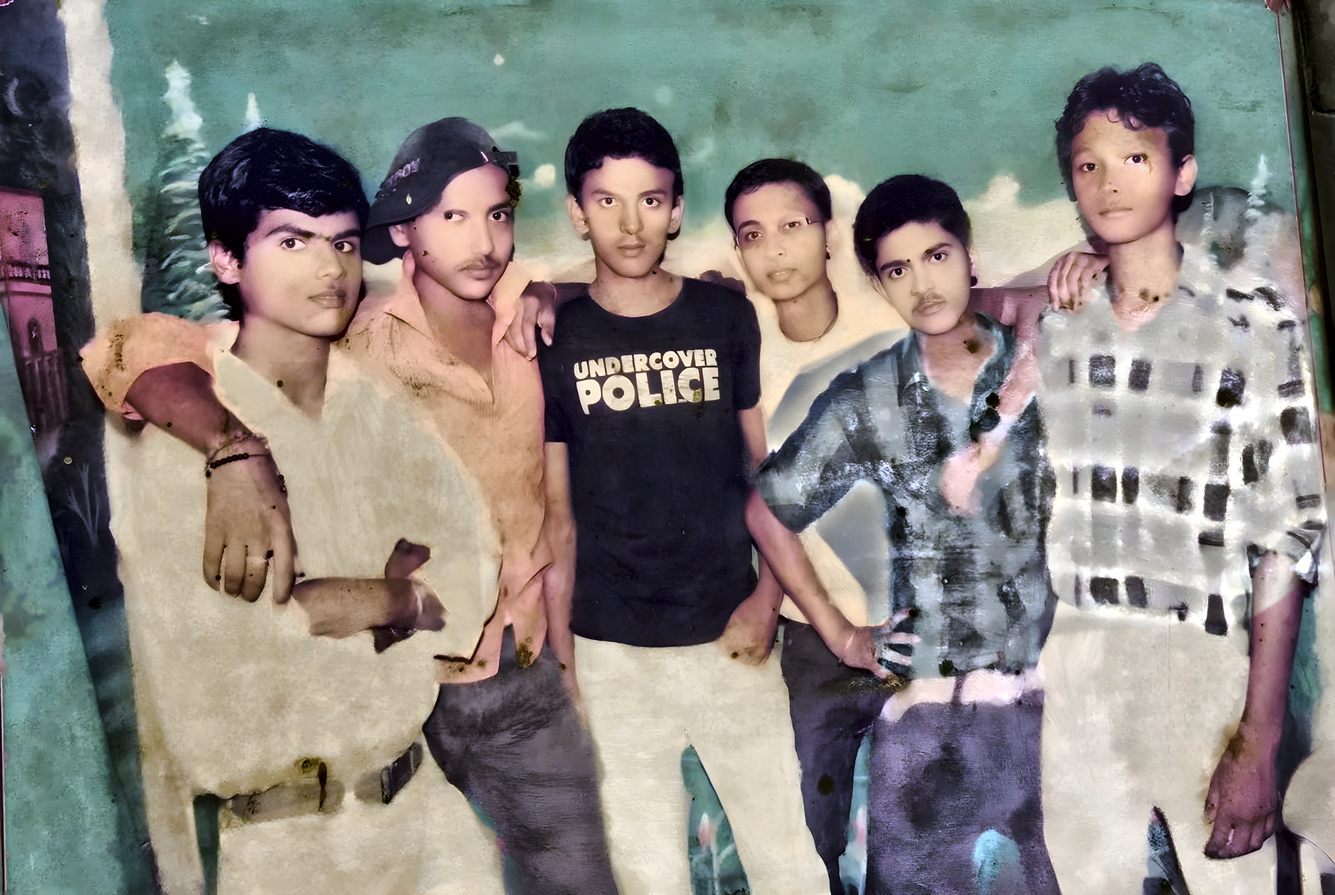
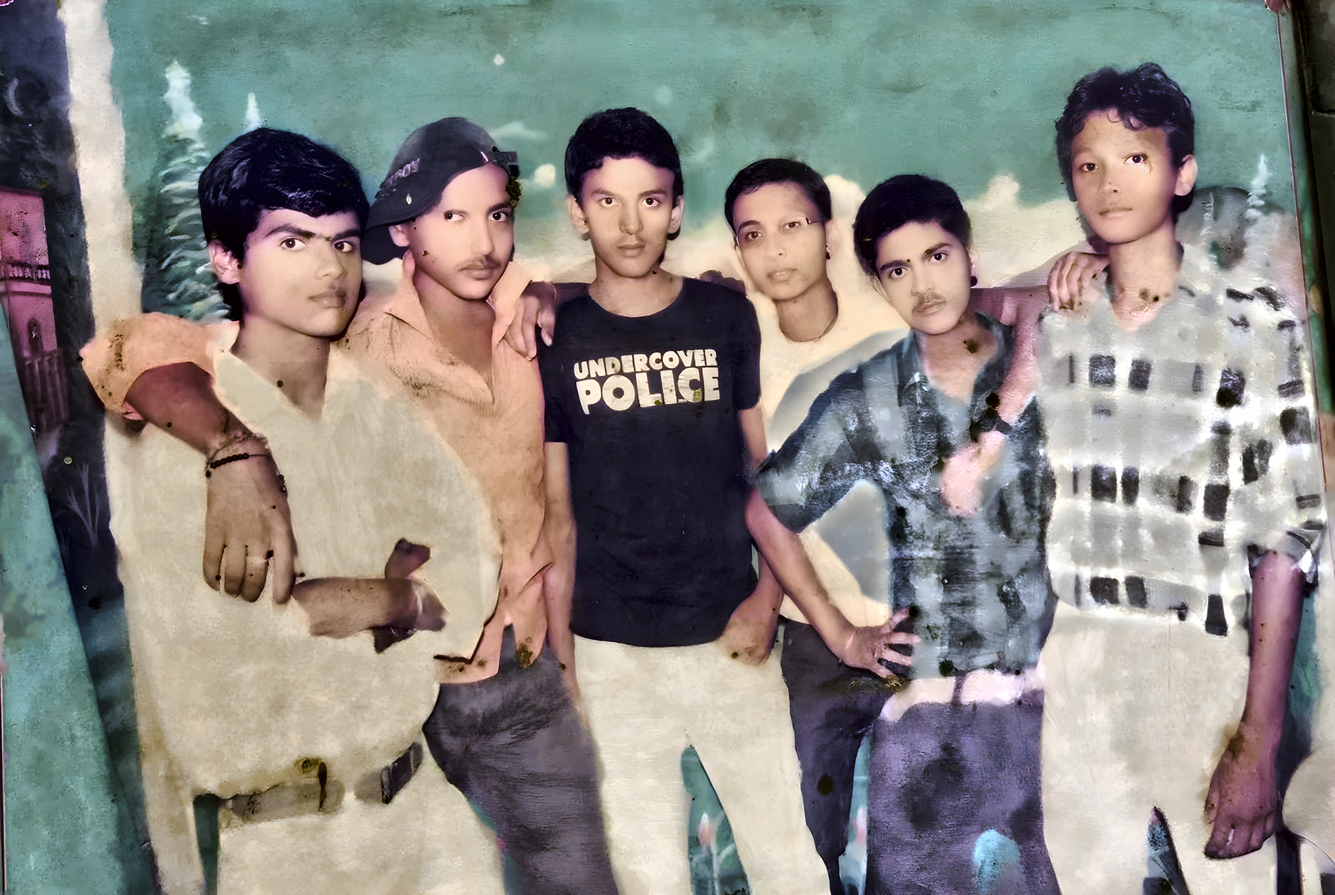
Final 4K restoration of the old photo, with a before/after
The garment, skin and backdrop stains are repainted with LaMa. The arms and
hands over the checked shirts are kept, and shadowed skin no longer goes
magenta. The README now covers the deep clean and states plainly what a
restoration of this print can and cannot recover.

Claude-Session: https://claude.ai/code/session_01L3hZmj9oe8Yfp8ZvHXW3mm

diff --git a/media/old-photo/README.md b/media/old-photo/README.md
@@ -30,13 +30,30 @@ second shot of the same print, kept for reference.
    own colour. It is blended back with an oval that fades out well inside
    the crop.
 
-What it cannot do: mould that soaked into the cloth areas (the light
-trousers and the checked shirts) is softened, not erased. The print lost
-that information, and painting it back would mean inventing clothes.
+After the spot pass, `deep_clean.py` repaints the broad water and mould
+stains with LaMa (big-lama, ONNX from OpenCV Zoo):
+
+- **Plain garments.** Stains on the cream shirts and trousers and the dark
+  trousers are repainted, then broad blotches are evened out.
+- **Checked shirts.** They are flat-fielded, which keeps the checks, then
+  their brown stains and round spots are repainted.
+- **Skin and backdrop.** Mould on skin and on the painted backdrop is
+  repainted, and the teal sky is evened out.
+- **Outlines.** `garments.py` holds the rough garment outlines, the areas
+  that must survive (belts, arms and hands over the shirts) and a
+  hand-marked chest smear.
+
+`before-after.jpg` shows the print and the result side by side.
+
+**What it cannot do.** This is a restoration of the print, not a new
+photograph. Detail the water destroyed (cloth texture, the bleached patches
+on the checked shirts, fine facial texture) is not in the source. Rebuilding
+it as a crisp modern photo needs a generative photo-restoration model, which
+this pipeline does not use.
 
 ```sh
 pip install numpy opencv-python-headless onnx onnxruntime
-python3 media/old-photo/restore.py
+python3 media/old-photo/restore.py      # about 10 minutes on CPU
 ```
 
 The model weights download on first use: Real-ESRGAN to
